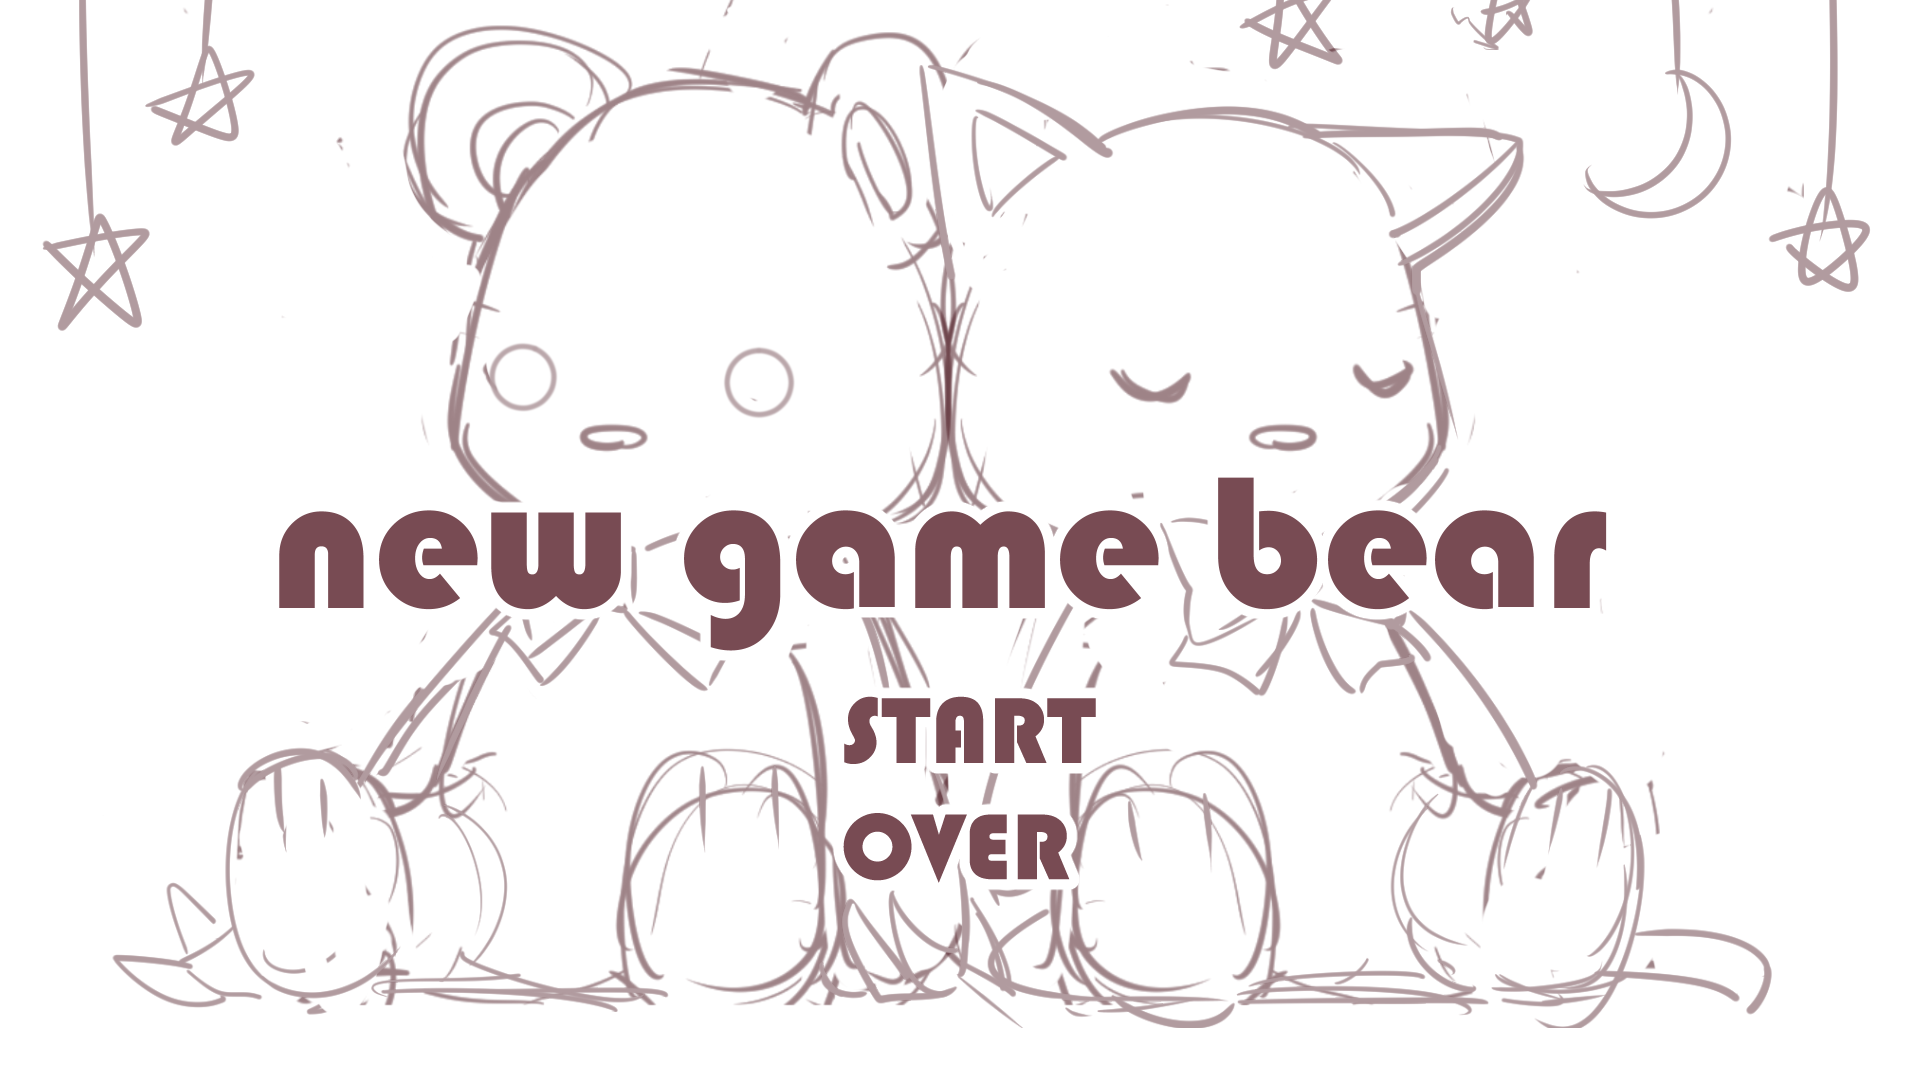
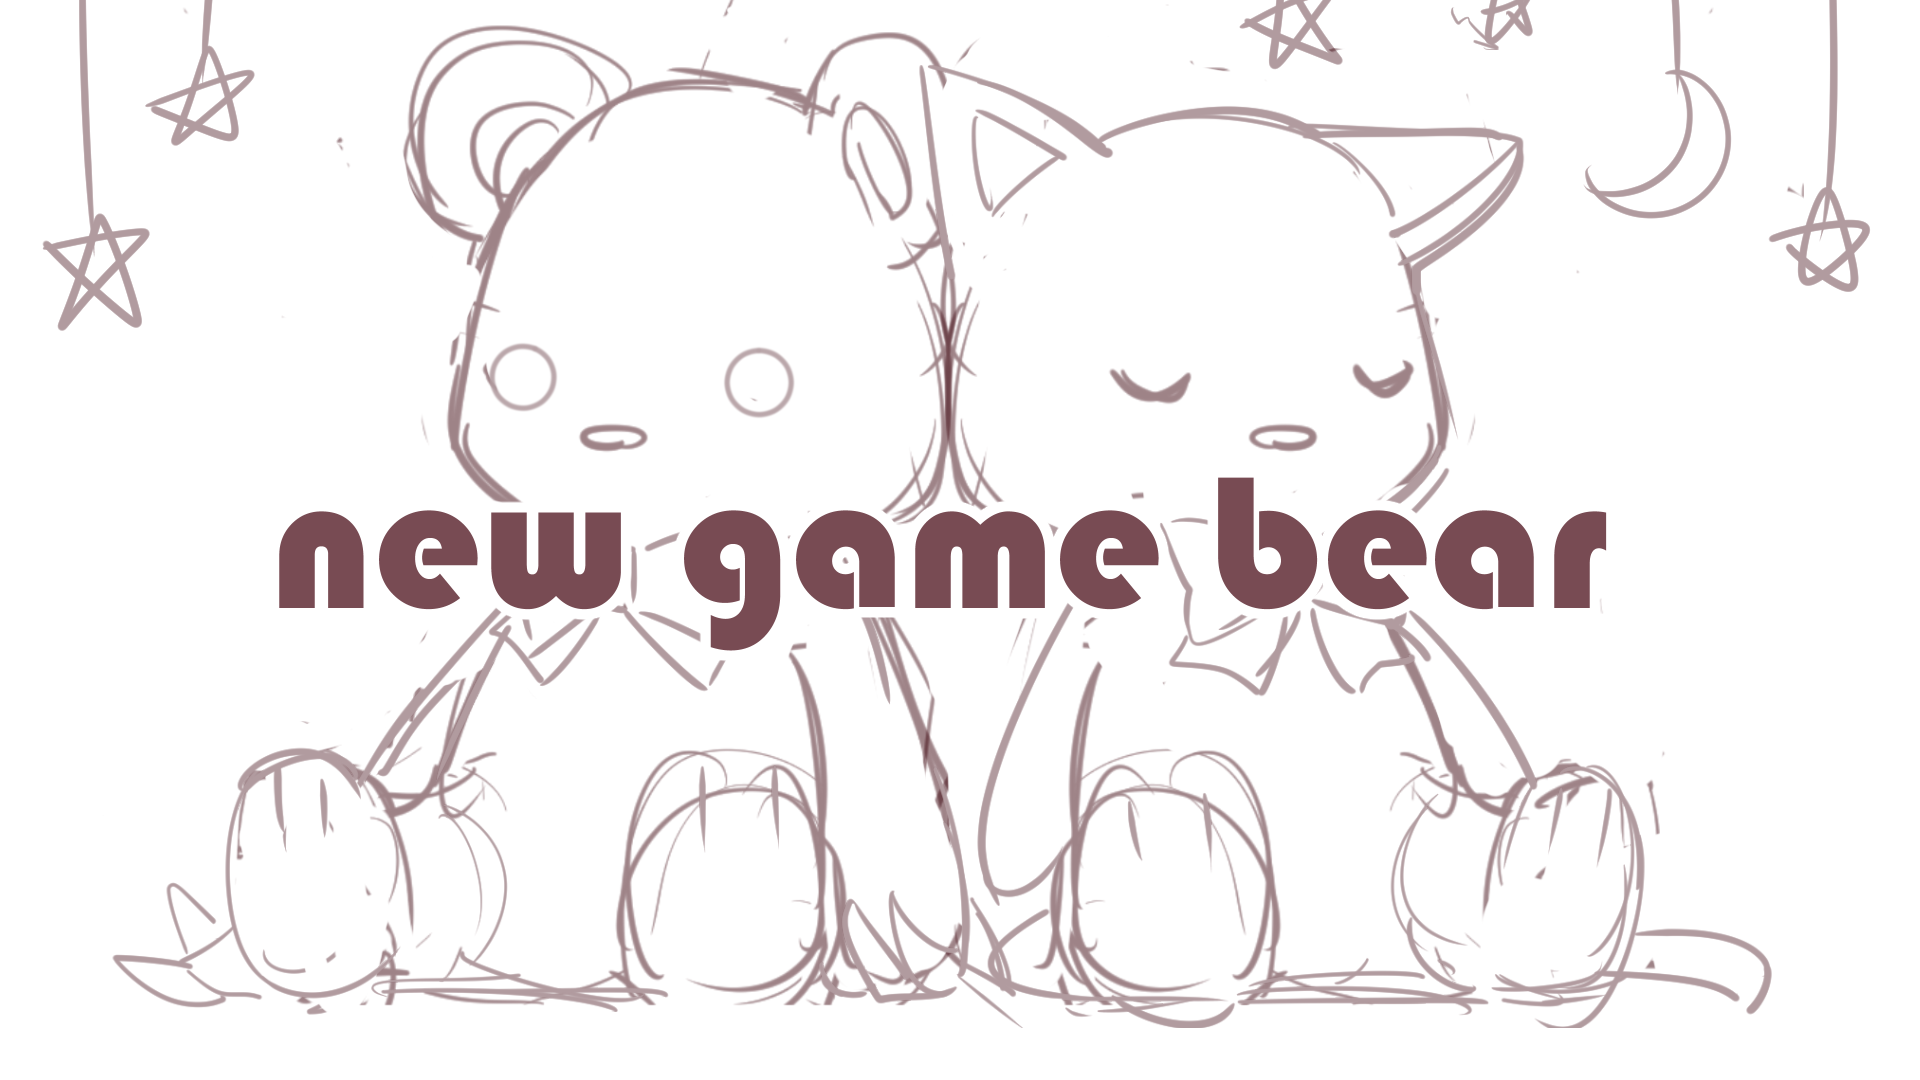
item,TitleSceneを追加した

Changed region(s): [[0.4375, 0.6417, 0.5938, 0.825]]

diff --git a/ActionGame/TitleScene.cs b/ActionGame/TitleScene.cs
@@ -1,0 +1,61 @@
+using System;
+using System.Collections.Generic;
+using System.Linq;
+using System.Text;
+using System.Threading.Tasks;
+using DxLibDLL;
+using MyLib;
+
+namespace ActionGame
+{
+    public class TitleScene : Scene
+    {
+        int Selecct = 1;
+        int timer = 0;
+
+        public TitleScene()
+        {
+            //DX.PlayMusic(".mp3", DX.DX_PLAYTYPE_LOOP);
+        }
+        public override void Update()
+        {
+            timer++;
+            if (Input.GetButtonDown(DX.PAD_INPUT_UP))
+            {
+                Selecct = 1;
+            }
+            else if (Input.GetButtonDown(DX.PAD_INPUT_DOWN))
+            {
+                Selecct = 2;
+            }
+            if (Input.GetButtonDown(DX.PAD_INPUT_10) && Selecct == 1)
+            {
+                Game.ChangeScene(new PlayScene());
+            }
+            else if (Input.GetButtonDown(DX.PAD_INPUT_10) && Selecct == 2)
+            {
+
+            }
+        }
+        public override void Draw()
+        {
+            DX.DrawGraph(0, 0, Image.TitleImage);
+            if (Selecct == 1)
+            {
+                if (timer / 15 % 2 == 0)
+                {
+                    DX.DrawRotaGraph(Screen.Width / 2, Screen.Height / 2 + 180, 1, 0, Image.ItemStart);
+                }
+                DX.DrawRotaGraph(Screen.Width / 2, Screen.Height / 2 + 300, 1, 0, Image.ItemOver);
+            }
+            else if (Selecct == 2)
+            {
+                if (timer / 15 % 2 == 0)
+                {
+                    DX.DrawRotaGraph(Screen.Width / 2, Screen.Height / 2 + 300, 1, 0, Image.ItemOver);
+                }
+                DX.DrawRotaGraph(Screen.Width / 2, Screen.Height / 2 + 180, 1, 0, Image.ItemStart);
+            }
+        }
+    }
+}

diff --git a/ActionGame/Image.cs b/ActionGame/Image.cs
@@ -17,6 +17,10 @@ namespace ActionGame
         public static int EnemyImage01; //ザコ敵01画像
 
         //アイテムのリソース画像
+        public static int ItemStart;
+        public static int ItemOver;
+        public static int ItemRetry;
+        public static int ItemTitle;
 
         //その他のリソース画像
         public static int[] mapchip = new int[128];
@@ -43,6 +47,10 @@ namespace ActionGame
             EnemyImage01 = DX.LoadGraph("Image/Enemy01.png");
 
             //アイテムのリソース画像
+            ItemTitle = DX.LoadGraph("Image/ItemTitle.png");
+            ItemRetry = DX.LoadGraph("Image/Retry.png");
+            ItemStart = DX.LoadGraph("Image/Start.png");
+            ItemOver = DX.LoadGraph("Image/Over.png");
 
             //その他のリソース画像
             DX.LoadDivGraph("Image/mapchip.png", mapchip.Length, 16, 8, 32, 32, mapchip);

diff --git a/ActionGame/Game.cs b/ActionGame/Game.cs
@@ -12,7 +12,7 @@ namespace ActionGame
             Input.Init();
             MyRandom.Init();
             Image.Load();
-            scene = new PlayScene();
+            scene = new TitleScene();
         }
 
         public void Update()
@@ -24,10 +24,14 @@ namespace ActionGame
             }
             scene.Update();
         }
-
         public void Draw()
         {
             scene.Draw();
+        }
+
+        public static void ChangeScene(Scene newScene)
+        {
+            scene = newScene;
         }
     }
 }
